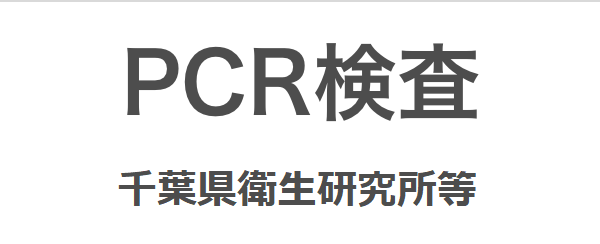
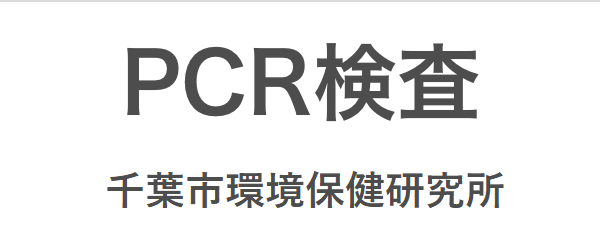
市からの指摘事項対応
- 千葉県衛生研究所を千葉市環境保健研究所に変更
- 問合せ先電話番号を043-238-9966に統一

Changed region(s): [[0.18, 0.6885, 0.84, 0.8607]]

diff --git a/components/DesktopFlowSvg.vue b/components/DesktopFlowSvg.vue
@@ -1034,8 +1034,8 @@
         </text>
         <g transform="translate(-101 1091)">
           <text class="b" transform="translate(238 106)">
-            <tspan x="-77" y="0">千葉県</tspan>
-            <tspan x="-77" y="25">衛生研究所等</tspan>
+            <tspan x="-77" y="0">千葉市</tspan>
+            <tspan x="-77" y="25">環境保険研究所</tspan>
           </text>
         </g>
       </g>
@@ -1163,7 +1163,7 @@
         </g>
       </g>
       <text class="an" transform="translate(633 679)">
-        <tspan x="-79.555" y="0">043-223-2640</tspan>
+        <tspan x="-79.555" y="0">048-238-9966</tspan>
       </text>
       <g transform="translate(520 656)">
         <path class="d" d="M0,0H26V26H0Z" />

diff --git a/pages/flow.vue b/pages/flow.vue
@@ -77,7 +77,7 @@
             />
           </div>
           <div class="TelLink">
-            <a href="tel:043-223-2640"
+            <a href="tel:043-238-9966"
               ><img src="/flow/sp/sp_flow_tel_01@2x.png" alt="0570-550571"
             /></a>
           </div>
@@ -106,10 +106,10 @@
                 土日祝 終日
               </dt>
               <dd class="TelLink">
-                <a href="tel:0353204592">
+                <a href="tel:043-238-9966">
                   <img
                     src="/flow/sp/sp_flow_tel_03@2x.png"
-                    alt="03-5320-4592"
+                    alt="043-238-9966"
                   />
                 </a>
               </dd>
